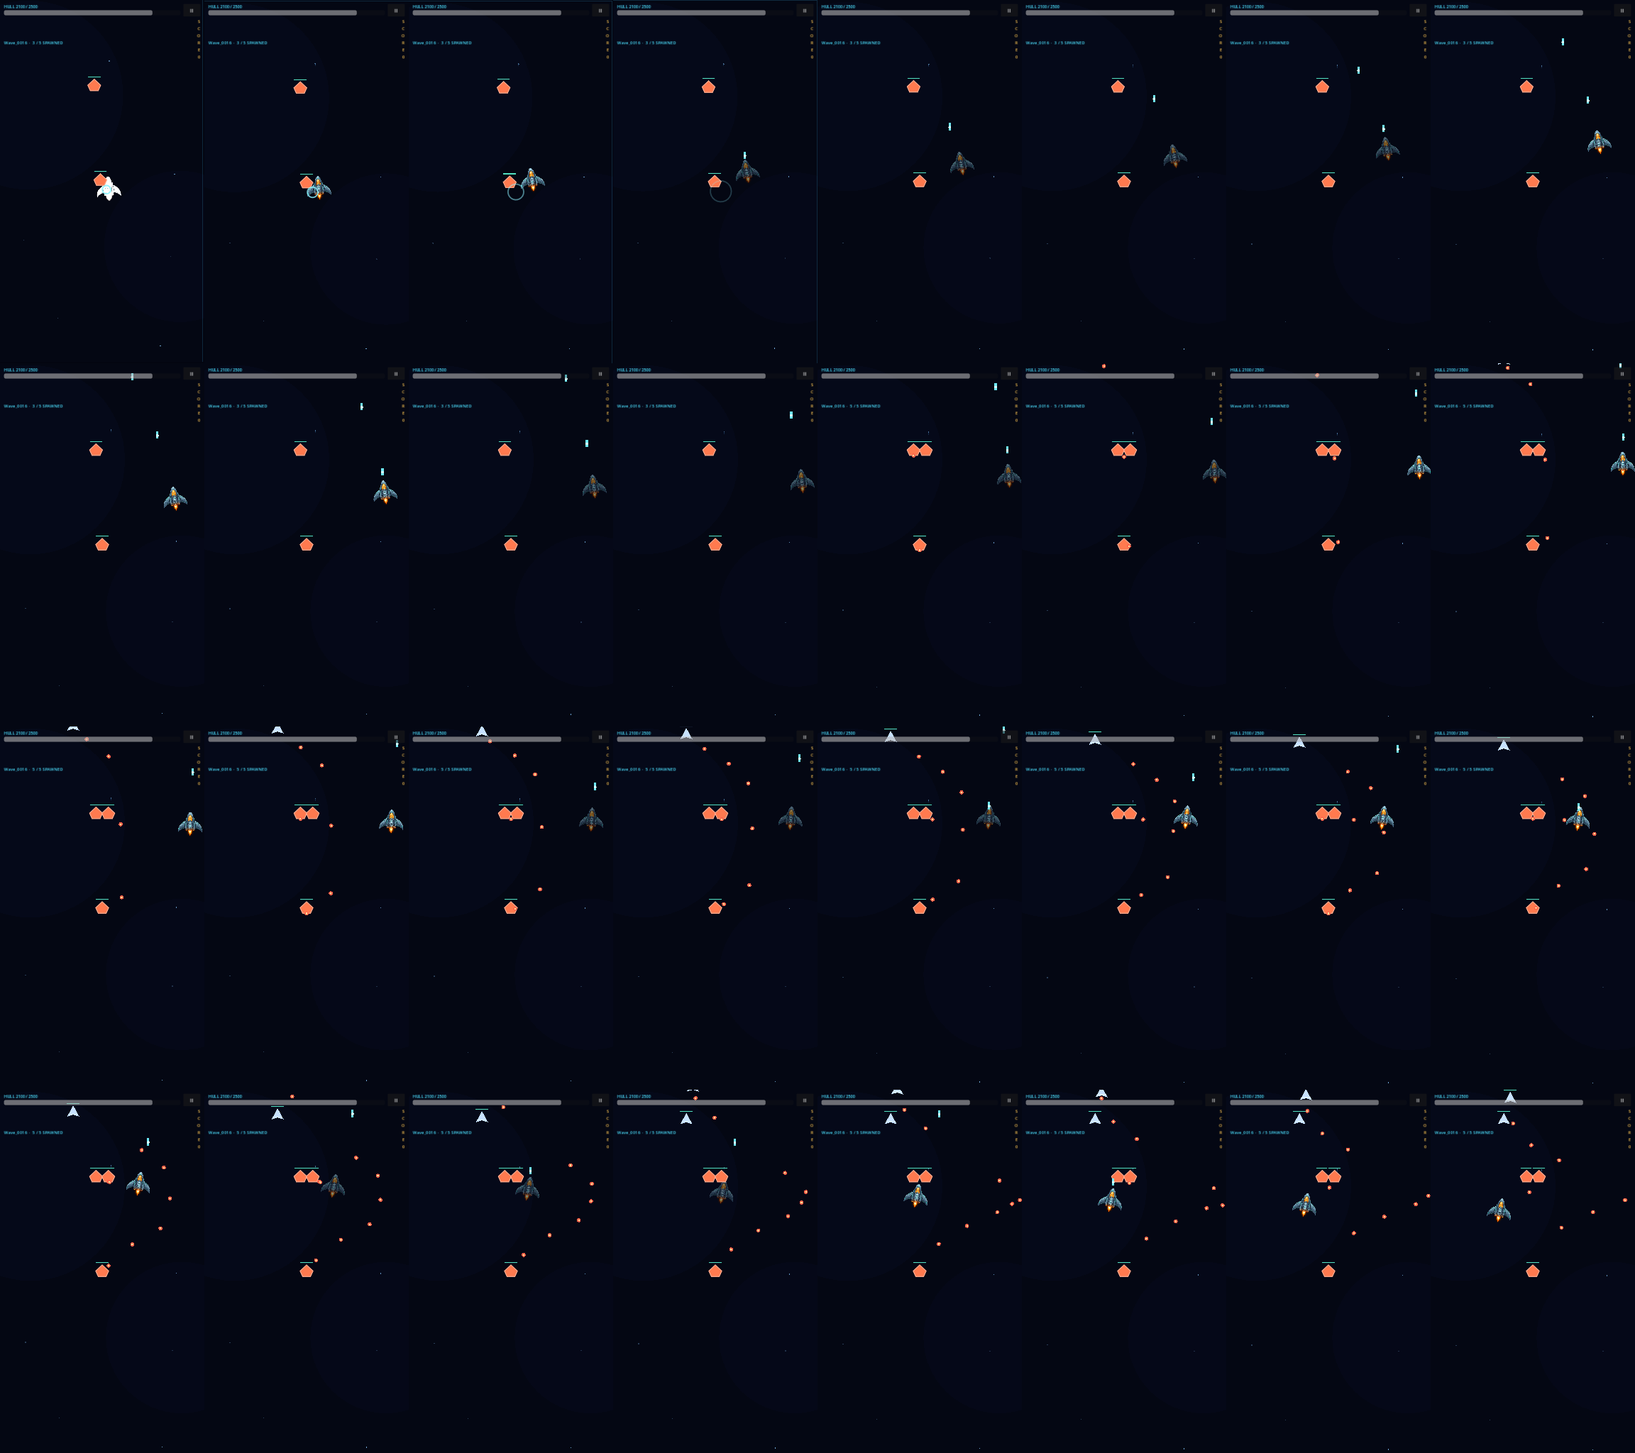
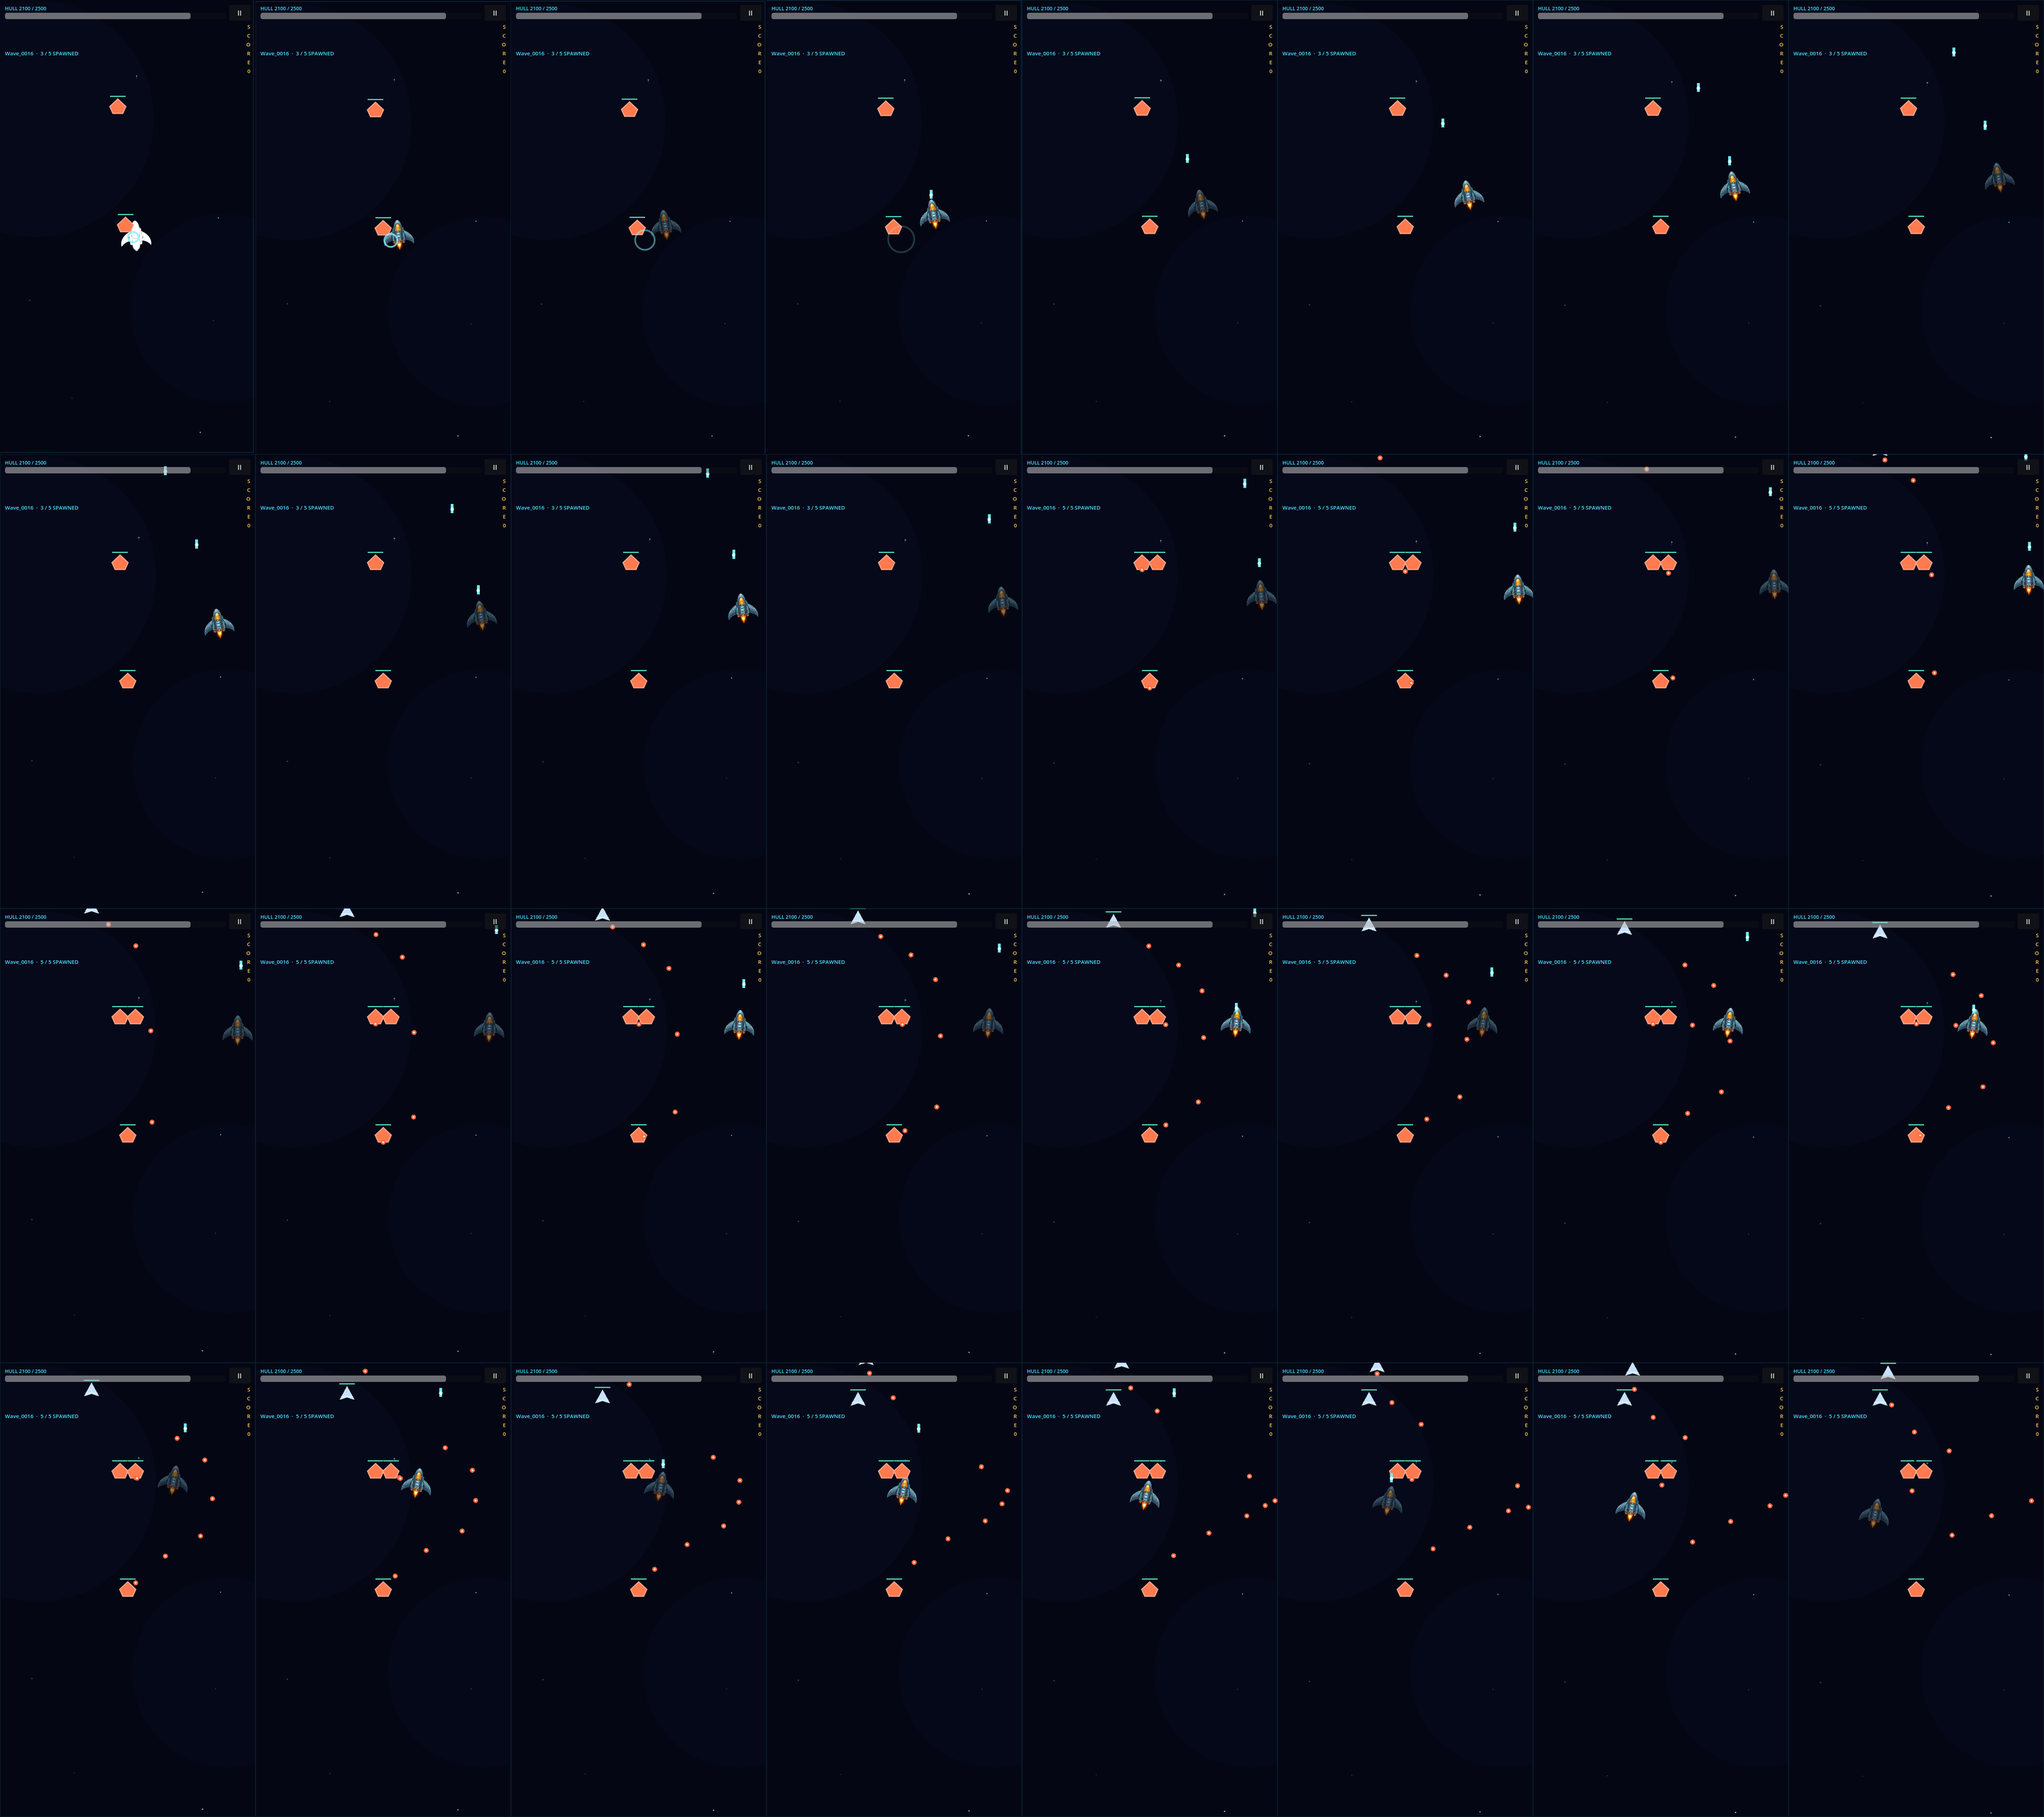
chore(motion): refresh ANIM-C frame evidence [skip ci]

diff --git a/motion/C/README.md b/motion/C/README.md
@@ -8,13 +8,14 @@ in order, so the motion can be read without playing the GIF.
 - Variant: ANIM-C - whole-image animation (one flat image per sprite, guns fixed, flame on the hull, particle overlay)
 - Art source: package
 - Capture rate: 12 fps
-- Frame width: 288px
+- Frame width: 360px
 
 | Segment | Frames | Simulated seconds | GIF | Frame sheet |
 |---|---:|---:|---|---|
 | boss | 92 | 7.58 | `boss.gif` | `boss-sheet.png` |
 | flight | 32 | 2.58 | `flight.gif` | `flight-sheet.png` |
 | hangar | 37 | 3.00 | `hangar.gif` | `hangar-sheet.png` |
+| turret | 42 | 3.42 | `turret.gif` | `turret-sheet.png` |
 
 Scenes: `hangar` = ship idle animation (float, breathing shadow, glow pulse,
 idle flame), `flight` = ship gliding and firing (banking, engine plume), `boss`
